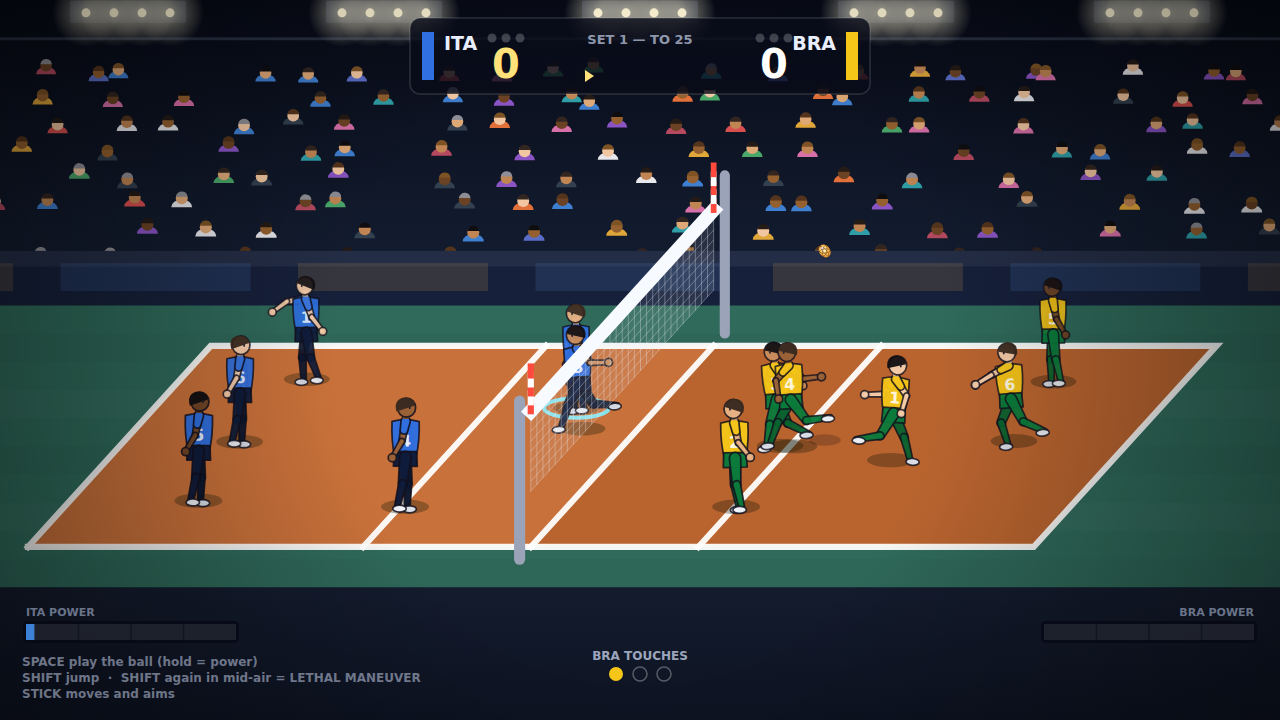
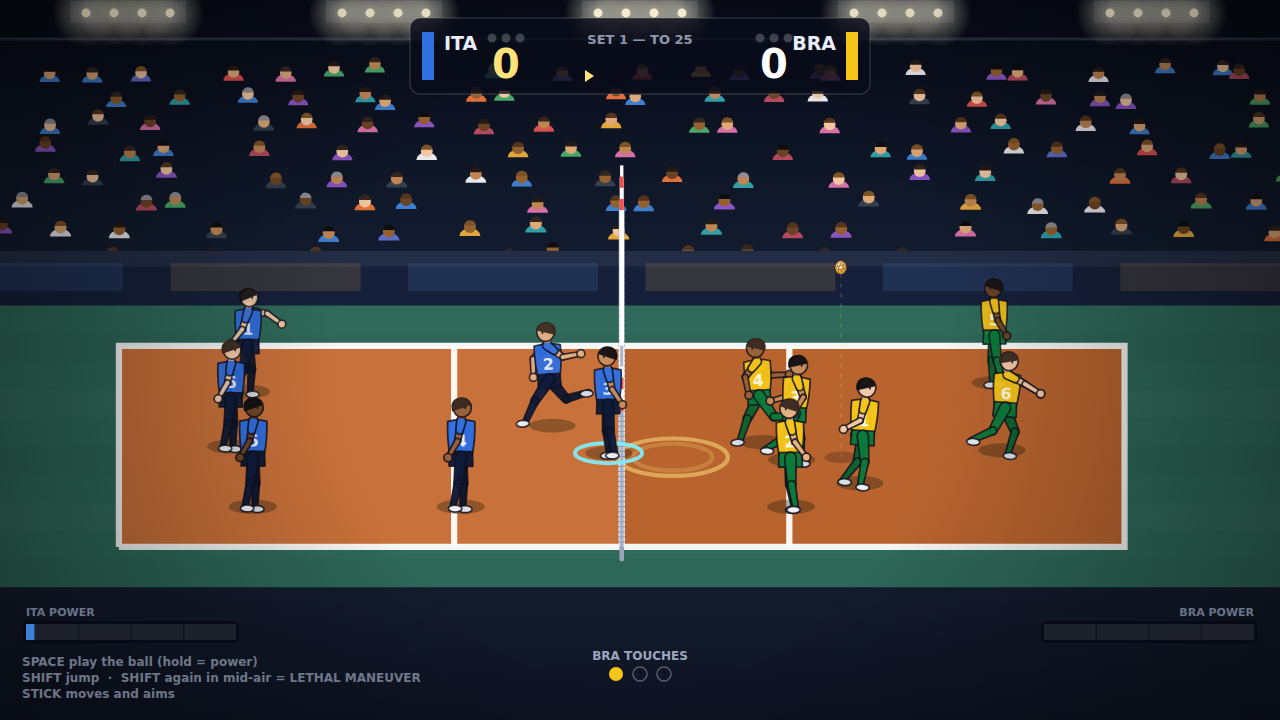
Flatten the view to a true side elevation
Checked the arcade original's screenshot rather than inferring the framing
from prose descriptions, which is what should have happened two attempts
ago. The court is a horizontal band, the teams sit left and right of centre,
and the net is a thin vertical post — width has no on-screen extent at all.

Court width now maps to a pure vertical offset. The previous diagonal shear
existed to give the net visible area, but it turned the court into a
parallelogram and the whole picture into an angled 3D scene.

The net is redrawn to suit: a narrow band from the far tape down to the near
sideline, with the bright tape edge that attacks are judged against and the
striped antennae above it.

Claude-Session: https://claude.ai/code/session_01H95JHcWRyVB2YjwLduBdEB

diff --git a/src/render/arena.ts b/src/render/arena.ts
@@ -4,7 +4,6 @@ import {
   ATTACK_LINE,
   COURT_HALF_LENGTH,
   COURT_HALF_WIDTH,
-  NET_BOTTOM,
   NET_HEIGHT,
 } from '../core/rules';
 import { Camera } from './camera';
@@ -296,88 +295,91 @@ export class Arena {
   }
 
   /**
-   * The net, seen edge-on as a band across the middle of the screen. The white
-   * tape along its top is the most useful reference in the game — every attack
-   * is a judgement about clearing it — so it is drawn bright and solid.
+   * The net.
+   *
+   * Seen from directly side-on it has no width at all: every point of it shares
+   * one screen column, so it is drawn as a narrow vertical post running from the
+   * top of the far antenna down to the near sideline. That is precisely how the
+   * arcade original renders it, and trying to give it visible area was what made
+   * the earlier version look like an angled 3D scene.
    */
   drawNet(ctx: CanvasRenderingContext2D, cam: Camera): void {
     const W = COURT_HALF_WIDTH;
+    const cx = cam.projectFloor(0, 0).x;
+    const u = cam.projectFloor(0, 0).scale * 42;
+    const half = Math.max(2.5, u * 0.055);
 
-    for (const x of [-W - 0.55, W + 0.55]) {
-      const foot = cam.project(x, 0, 0);
-      const top = cam.project(x, 0, NET_HEIGHT + 0.4);
-      ctx.strokeStyle = '#9aa3b8';
-      ctx.lineWidth = Math.max(2.5, 8 * top.scale);
-      ctx.lineCap = 'round';
-      ctx.beginPath();
-      ctx.moveTo(foot.x, foot.y);
-      ctx.lineTo(top.x, top.y);
-      ctx.stroke();
-    }
-
-    // Net cloth: a translucent band, then the mesh over it.
-    const c1 = cam.project(-W, 0, NET_HEIGHT);
-    const c2 = cam.project(W, 0, NET_HEIGHT);
-    const c3 = cam.project(W, 0, NET_BOTTOM);
-    const c4 = cam.project(-W, 0, NET_BOTTOM);
-    ctx.beginPath();
-    ctx.moveTo(c1.x, c1.y);
-    ctx.lineTo(c2.x, c2.y);
-    ctx.lineTo(c3.x, c3.y);
-    ctx.lineTo(c4.x, c4.y);
-    ctx.closePath();
-    ctx.fillStyle = 'rgba(232,238,248,0.1)';
-    ctx.fill();
+    // Screen extents: far side is highest, near side lowest.
+    const tapeFar = cam.project(W, 0, NET_HEIGHT).y;
+    const tapeNear = cam.project(-W, 0, NET_HEIGHT).y;
+    const footFar = cam.project(W, 0, 0).y;
+    const footNear = cam.project(-W, 0, 0).y;
 
     ctx.save();
-    ctx.globalAlpha = 0.32;
-    ctx.strokeStyle = '#e8eef8';
-    ctx.lineWidth = 1;
-    const cols = 30;
-    for (let i = 0; i <= cols; i++) {
-      const x = -W + (2 * W * i) / cols;
-      const a = cam.project(x, 0, NET_BOTTOM);
-      const b = cam.project(x, 0, NET_HEIGHT);
-      ctx.beginPath();
-      ctx.moveTo(a.x, a.y);
-      ctx.lineTo(b.x, b.y);
-      ctx.stroke();
-    }
-    const rows = 8;
-    for (let j = 0; j <= rows; j++) {
-      const z = NET_BOTTOM + ((NET_HEIGHT - NET_BOTTOM) * j) / rows;
-      const a = cam.project(-W, 0, z);
-      const b = cam.project(W, 0, z);
-      ctx.beginPath();
-      ctx.moveTo(a.x, a.y);
-      ctx.lineTo(b.x, b.y);
-      ctx.stroke();
-    }
-    ctx.restore();
 
-    ctx.strokeStyle = '#f7fbff';
-    ctx.lineWidth = Math.max(3, 10 * c1.scale);
-    ctx.lineCap = 'square';
+    // Posts, standing just outside each sideline.
+    for (const [x, y] of [
+      [W + 0.55, cam.project(W + 0.55, 0, 0).y],
+      [-W - 0.55, cam.project(-W - 0.55, 0, 0).y],
+    ] as [number, number][]) {
+      const top = cam.project(x, 0, NET_HEIGHT + 0.35).y;
+      ctx.strokeStyle = '#9aa3b8';
+      ctx.lineWidth = half * 1.5;
+      ctx.lineCap = 'round';
+      ctx.beginPath();
+      ctx.moveTo(cx, y);
+      ctx.lineTo(cx, top);
+      ctx.stroke();
+    }
+
+    // The net itself: a pale vertical band from the far tape to the near floor.
+    const grad = ctx.createLinearGradient(cx - half, 0, cx + half, 0);
+    grad.addColorStop(0, 'rgba(214,224,240,0.55)');
+    grad.addColorStop(0.5, 'rgba(246,250,255,0.9)');
+    grad.addColorStop(1, 'rgba(214,224,240,0.55)');
+    ctx.fillStyle = grad;
+    ctx.fillRect(cx - half, tapeFar, half * 2, footNear - tapeFar);
+
+    // Mesh, as fine horizontal ticks down the band.
+    ctx.strokeStyle = 'rgba(60,74,102,0.5)';
+    ctx.lineWidth = 1;
+    for (let y = tapeFar; y < footNear; y += Math.max(3, u * 0.09)) {
+      ctx.beginPath();
+      ctx.moveTo(cx - half, y);
+      ctx.lineTo(cx + half, y);
+      ctx.stroke();
+    }
+
+    // Bright tape along the run of the net's top edge, and the base line.
+    ctx.strokeStyle = '#ffffff';
+    ctx.lineWidth = half * 1.5;
+    ctx.lineCap = 'butt';
     ctx.beginPath();
-    ctx.moveTo(c1.x, c1.y);
-    ctx.lineTo(c2.x, c2.y);
+    ctx.moveTo(cx, tapeFar);
+    ctx.lineTo(cx, tapeNear);
+    ctx.stroke();
+    ctx.strokeStyle = 'rgba(150,164,190,0.8)';
+    ctx.lineWidth = half;
+    ctx.beginPath();
+    ctx.moveTo(cx, footFar);
+    ctx.lineTo(cx, footNear);
     ctx.stroke();
 
-    for (const x of [-W, W]) {
-      const a = cam.project(x, 0, NET_HEIGHT);
-      const b = cam.project(x, 0, ANTENNA_HEIGHT);
-      const segs = 5;
+    // Antennae: the striped markers at each sideline, above the tape.
+    for (const x of [W, -W]) {
+      const a = cam.project(x, 0, NET_HEIGHT).y;
+      const b = cam.project(x, 0, ANTENNA_HEIGHT).y;
+      const segs = 4;
+      ctx.lineWidth = half * 1.1;
       for (let i = 0; i < segs; i++) {
-        const t0 = i / segs;
-        const t1 = (i + 1) / segs;
         ctx.strokeStyle = i % 2 === 0 ? '#ff4a3d' : '#ffffff';
-        ctx.lineWidth = Math.max(2, 4.5 * a.scale);
         ctx.beginPath();
-        ctx.moveTo(a.x + (b.x - a.x) * t0, a.y + (b.y - a.y) * t0);
-        ctx.lineTo(a.x + (b.x - a.x) * t1, a.y + (b.y - a.y) * t1);
+        ctx.moveTo(cx, a + ((b - a) * i) / segs);
+        ctx.lineTo(cx, a + ((b - a) * (i + 1)) / segs);
         ctx.stroke();
       }
     }
+    ctx.restore();
   }
 }
 

diff --git a/src/render/camera.ts b/src/render/camera.ts
@@ -16,17 +16,20 @@ export interface Projected {
 /** Pixels per metre along the court and vertically, at a 1280 px viewport. */
 const PIXELS_PER_METRE = 55;
 /**
- * Oblique projection of the court's width: each metre further from the viewer
- * moves a point this far up and this far right.
+ * Court width, projected as a pure vertical offset: each metre further from the
+ * viewer moves a point this far up the screen and no distance sideways.
  *
- * Mapping width to a purely vertical offset would be simpler, but then the net
- * — which runs along the width — becomes a vertical bar on screen. Sending it
- * diagonally instead is the trick 2D sports games have always used: depth is
- * legible, and because the offset is constant per metre, nothing converges and
- * nothing changes size with distance.
+ * This is a flat side elevation. The court is a horizontal band, its lines stay
+ * horizontal and vertical, and the net — which runs along the width — collapses
+ * to a narrow vertical post in the middle of the screen, which is exactly what
+ * the arcade original shows. An earlier version sheared width diagonally to
+ * give the net visible area; that read as an angled 3D scene and was wrong.
+ *
+ * The ratio to PIXELS_PER_METRE matters: the reference compresses the court's
+ * 9 m of depth to roughly a sixth of its 18 m of length on screen, and 22 px
+ * per metre against 55 is what reproduces that.
  */
 const DEPTH_RISE = 22;
-const DEPTH_SHEAR = 20;
 /**
  * How much smaller the far sideline is drawn than the near one. Applied to
  * sprite size only, never to position, so court lines stay exactly parallel.
@@ -109,7 +112,7 @@ export class Camera {
     const k = (this.viewWidth / 1280) * this.zoom;
 
     return {
-      x: this.viewWidth / 2 + (wy - this.panY) * u + wx * DEPTH_SHEAR * k + this.offsetX,
+      x: this.viewWidth / 2 + (wy - this.panY) * u + this.offsetX,
       y: this.baseline - wx * DEPTH_RISE * k - wz * u + this.offsetY,
       // Nearer the viewer means smaller x, and must be drawn last.
       depth: wx,

diff --git a/README.md b/README.md
@@ -166,13 +166,19 @@ of it is drawn, so switching from a behind-the-baseline view to the side-on one
 this game needed was a change to the projection alone. Not a line of gameplay
 code moved.
 
-**The projection is oblique, not perspective.** There is no divide by depth
+**The projection is a flat side elevation.** There is no divide by depth
 anywhere in the renderer, and that single absence is what makes the picture read
-as a 2D game: court lines stay exactly parallel, and a player is the same size
-wherever they stand. Court width is mapped to a constant diagonal offset —
-22 px up and 20 px right per metre — which is the trick 2D sports games have
-always used. Sending width straight up instead would be simpler, but then the
-net, which runs along the width, becomes a vertical bar on screen.
+as a 2D game: court lines stay exactly parallel and a player is the same size
+wherever they stand. Court width maps to a pure vertical offset of 22 px per
+metre against 55 px per metre along the court, which compresses the court's 9 m
+of depth to about a sixth of its 18 m of length — the ratio the arcade original
+uses.
+
+The net therefore has no width at all on screen: every point of it shares one
+column, so it is drawn as a narrow vertical post. That is correct, and it is
+what the original does. An intermediate version sheared the width axis
+diagonally to give the net visible area, which produced a handsome picture that
+was unmistakably an angled 3D scene — the wrong game.
 
 Players are drawn as articulated vector figures rather than sprites: a skeleton
 of joint angles, limbs as tapered capsules with knees and elbows, flat colours
